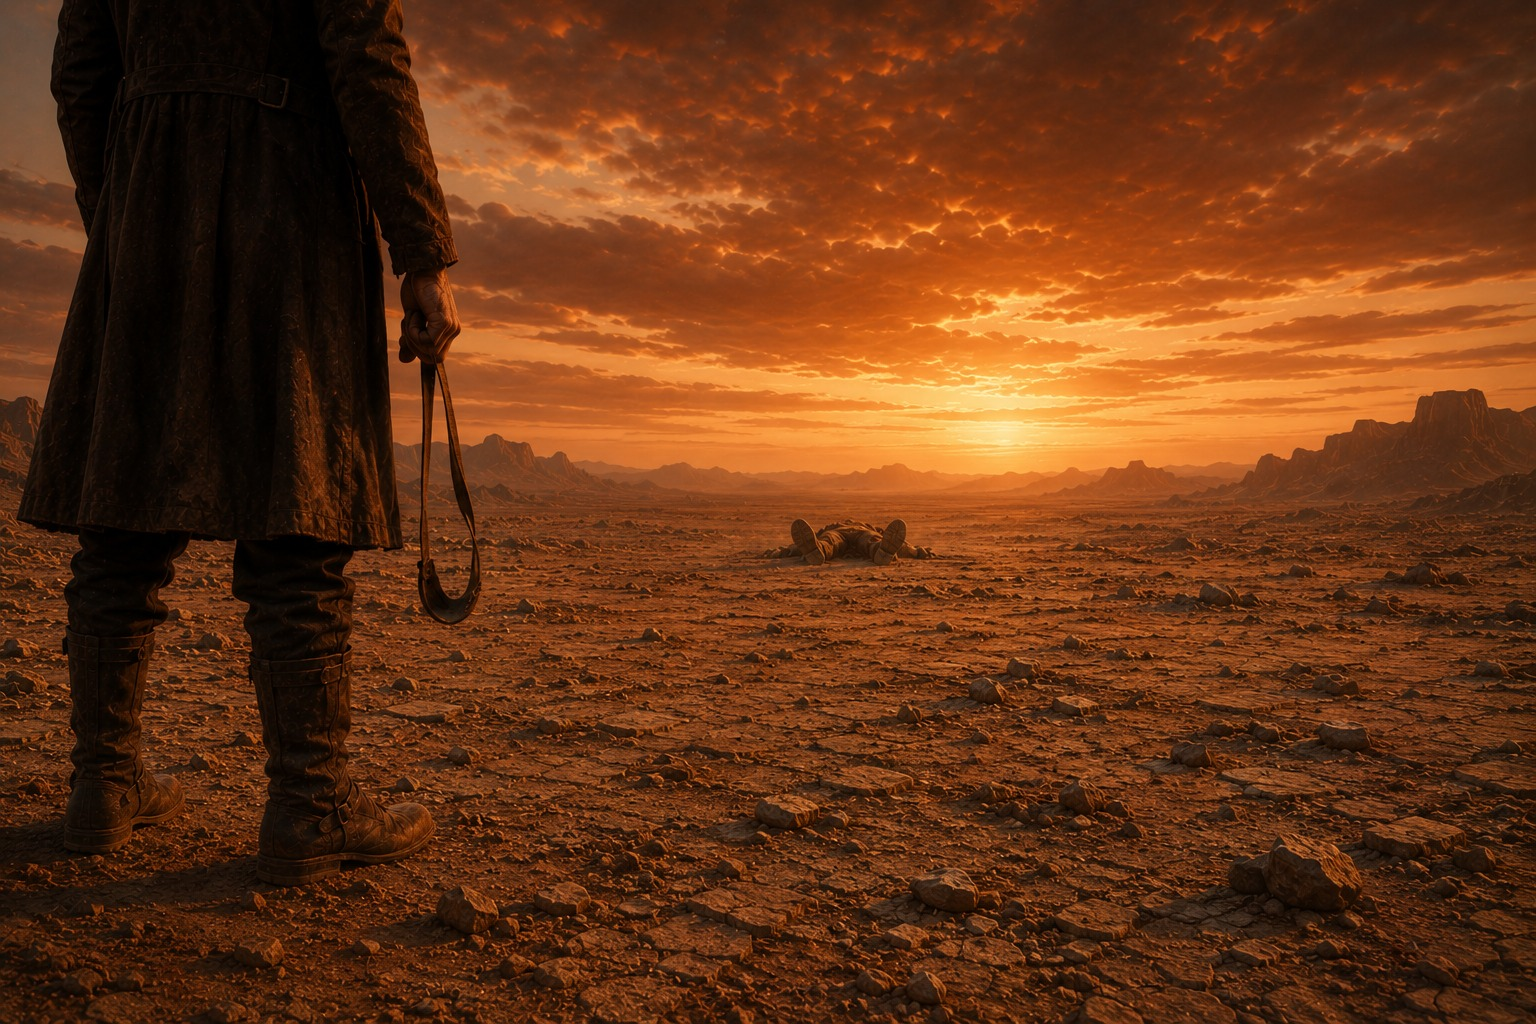
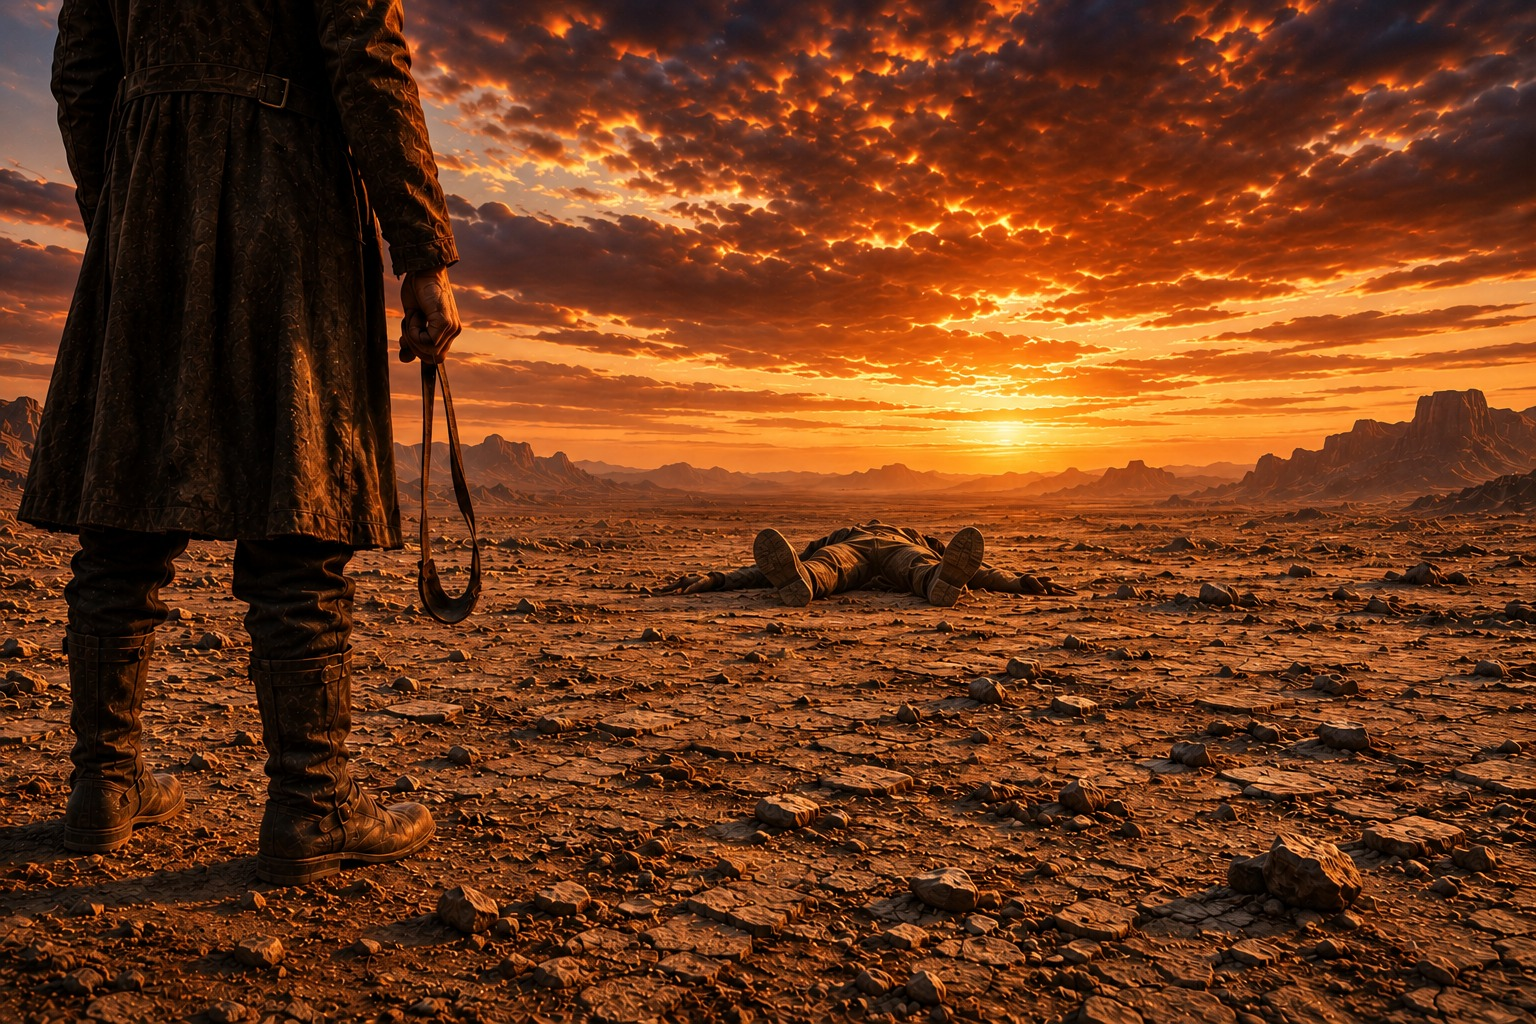
Substituir el fons del capítol 3
Claude-Session: https://claude.ai/code/session_01GKrSvxo6zfT4erwbxr9Umu

diff --git a/index.html b/index.html
@@ -14,7 +14,7 @@
 <link rel="preconnect" href="https://fonts.googleapis.com">
 <link rel="preconnect" href="https://fonts.gstatic.com" crossorigin>
 <link href="https://fonts.googleapis.com/css2?family=Playfair+Display:ital,wght@0,400;0,500;0,600;0,700;1,400;1,500&family=EB+Garamond:ital,wght@0,400;0,500;0,600;1,400;1,500&display=swap" rel="stylesheet">
-<link rel="stylesheet" href="assets/css/estilo.css?v=20261001p">
+<link rel="stylesheet" href="assets/css/estilo.css?v=20261001r">
 <script>document.documentElement.className = 'con-js';</script>
 </head>
 <body>
@@ -324,6 +324,6 @@
 
 </div>
 
-<script src="assets/js/libro.js?v=20261001p"></script>
+<script src="assets/js/libro.js?v=20261001r"></script>
 </body>
 </html>

diff --git a/assets/css/estilo.css b/assets/css/estilo.css
@@ -363,6 +363,7 @@ a{ color: inherit; }
 
 /* Una fotografia pot demanar un punt més de vel que la resta */
 [data-fondo="capitulo-1"]{ --mas-velo: .16; }
+[data-fondo="capitulo-3"]{ --mas-velo: .15; }
 /* En la página en blanco se ve más la imagen */
 .pagina--vacia .pagina__velo{
   background:
